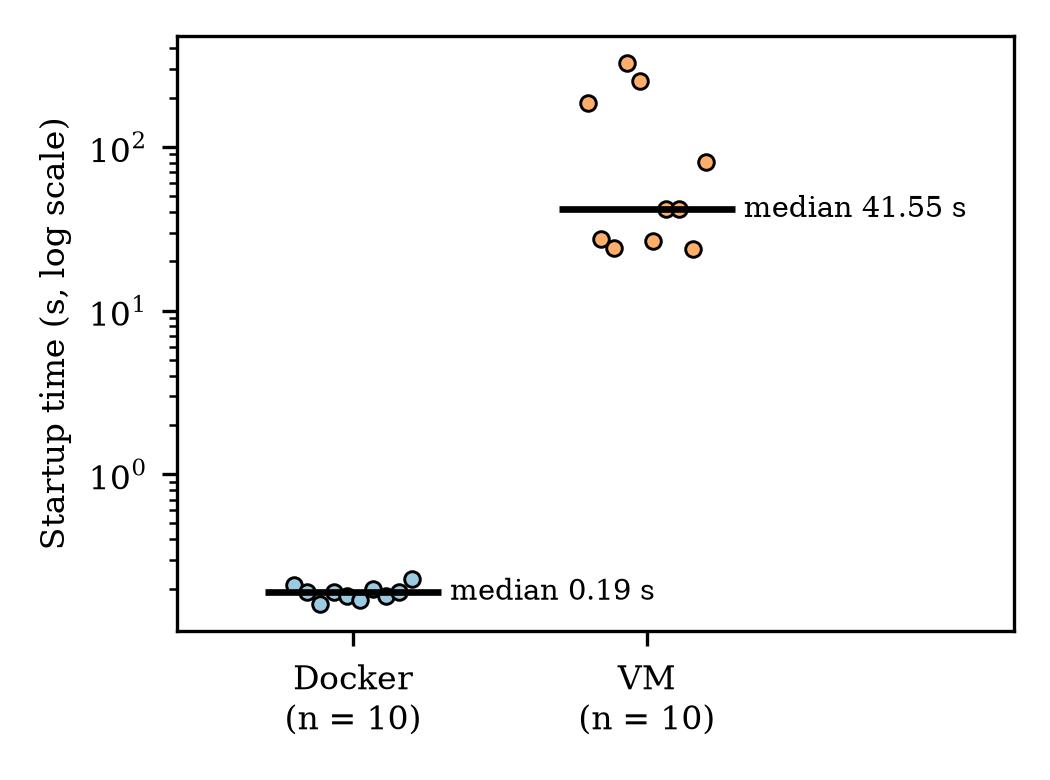
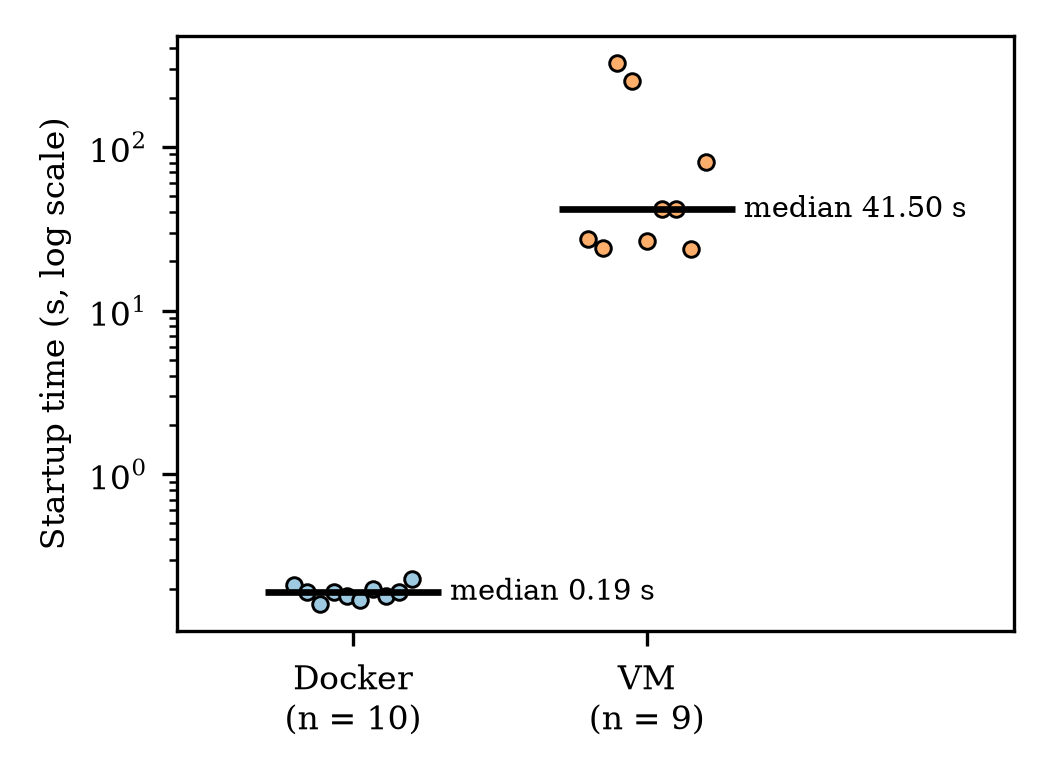
Add screenshots, VM setup, memory scripts and README; mark run 0 invalid

diff --git a/README.md b/README.md
@@ -1,27 +1,87 @@
 # Virtual Machines vs. Containers – SEN421 Course Project
 
-SEN421 Cloud Architecture and Services, Fall 2026 – Topic 2
-Istanbul Aydın University – [Your Name]
+SEN421 Cloud Architecture and Services, Fall 2026 – Topic 2 (Part A)
+Istanbul Aydın University – Safiyye Kalemci
 
 ## Overview
-This project compares running the same application in a virtual machine
-(VirtualBox, Ubuntu Server) and in a Docker container. The application is my
-portfolio website (React + Vite), served by Nginx in both environments.
-Measured: image size, startup time, memory use, and requests per second.
+This project runs the same application in a virtual machine (VirtualBox, Ubuntu Server)
+and in a Docker container, and compares image/disk size, startup time, memory use, and
+requests per second. The application is my portfolio website (React + Vite, static files),
+served by Nginx in both environments. A monthly cloud cost estimate (AWS EC2 vs. AWS Fargate)
+is also included.
 
 Application source: https://github.com/SafiyyeKalemci/Portfolio-Website
 
 ## Test Environment
-- Host: [CPU, RAM], Windows 11 Home
-- VM: VirtualBox [version], Ubuntu Server [version], [x] vCPU, [x] GB RAM
-- Container: Docker Desktop [version] (WSL2 backend)
-- Load test: k6 [version]
+| Item | Value |
+|------|-------|
+| Host | Intel Core i5-12500H (12 cores, 16 threads), 15.8 GB RAM, Windows 11 Home (build 26300) |
+| VM | VirtualBox 7.2.22 (running through Hyper-V / NEM), Ubuntu Server 26.04.1 LTS, kernel 7.0.0-44-generic, 2 vCPU, 2048 MB RAM, 15 GB disk, Nginx 1.28.3 |
+| Container | Docker Desktop 4.81.0 (Engine 29.6.1, WSL 2 backend: WSL 2.7.10.0, kernel 6.18.33.2-2), image `nginx:alpine` (Nginx 1.31.8), limits `--cpus=2 --memory=2g` |
+| Load test | k6 v2.4.0, run on the same host |
+| Site build | Vite 7.3.1, `--base=/`, `dist/` ≈ 5.6 MB |
 
 ## Repository Structure
-- `docker/` – Dockerfile and Nginx configuration
-- `vm/` – setup commands for the VM
-- `scripts/` – measurement scripts
-- `results/` – raw results (CSV) and charts
+- `docker/` – Dockerfile (default Nginx configuration of `nginx:alpine`)
+- `vm/` – VM setup steps (`setup_vm.md`)
+- `scripts/` – load test, startup and memory measurement scripts, figure script
+- `results/` – raw results (k6 JSON, startup CSV, memory logs) and `aws/` cost estimates
+- `figures/` – architecture diagram and result figures (PDF and PNG)
+- `screenshots/` – evidence of the deployments
+
+`dist/` (the built site) is not committed; build it as shown below.
 
 ## How to Reproduce
-[To be added]
+1. **Build the site** (in the Portfolio-Website repository), then copy `dist/` to the root of this repository:
+   ```powershell
+   npm ci
+   npm run build -- --base=/
+   ```
+2. **Container** (repository root):
+   ```powershell
+   docker build -t portfolio-nginx -f docker/Dockerfile .
+   docker run -d --name portfolio -p 8080:80 --cpus=2 --memory=2g portfolio-nginx
+   ```
+3. **VM**: follow [`vm/setup_vm.md`](vm/setup_vm.md). The site is served on port 8081.
+4. **Throughput** – one warm-up run, then three recorded runs, 60 s apart
+   (load: 10 s ramp to 50 virtual users, 30 s at 50; each iteration requests the page, CSS and JS):
+   ```powershell
+   k6 run -e TARGET=http://localhost:8081 scripts/load_test.js   # warm-up
+   foreach ($i in 1..3) { k6 run -e TARGET=http://localhost:8081 --summary-export="results/vm_run$i.json" scripts/load_test.js; Start-Sleep -Seconds 60 }
+   ```
+   Use port 8080 and `docker_run$i.json` for the container. Docker Desktop was closed during the VM tests.
+5. **Startup time** (start command until the first HTTP 200):
+   ```powershell
+   powershell -ExecutionPolicy Bypass -File scripts\measure_vm_startup.ps1
+   powershell -ExecutionPolicy Bypass -File scripts\measure_docker_startup.ps1
+   ```
+   VM: power-on of a stopped VM. Docker: `docker start` of an existing container while Docker Desktop is already running.
+6. **Memory under load** – run the sampler and a k6 test at the same time (three repetitions):
+   - VM (inside the VM over SSH): `bash measure_vm_memory.sh 1`, then copy `mem1.txt` to `results/vm_mem1.txt`
+   - Docker: `powershell -ExecutionPolicy Bypass -File scripts\measure_docker_memory.ps1 -Rep 1`
+7. **Size**:
+   ```powershell
+   docker images portfolio-nginx
+   docker image inspect portfolio-nginx --format "{{.Size}}"
+   docker exec portfolio sh -c "du -xsm / 2>/dev/null"
+   ```
+   In the VM: `df -h /`; on the host: size of the `.vdi` file.
+8. **Figures**:
+   ```powershell
+   pip install matplotlib
+   python scripts/make_figures.py
+   ```
+
+## Main Results (mean ± SD of 3 runs unless noted)
+| Metric | Docker | VM |
+|--------|--------|----|
+| Throughput (req/s) | 2110.8 ± 94.0 | 546.9 ± 22.6 |
+| Median response time (ms) | 22.3 ± 1.0 | 78.6 ± 1.9 |
+| p95 response time (ms) | 81.6 ± 3.9 | 321.7 ± 15.6 |
+| Startup time, median (s) | 0.19 (n = 10) | 41.5 (n = 9) |
+| Memory under load (MiB) | 17.6 ± 0.1 (container cgroup) | 410.7 ± 0.6 (whole VM) |
+| Filesystem size | 70 MiB | 5.0 GiB |
+
+## Cost
+No cloud resources were created; all experiments ran locally (actual cost: 0 USD).
+Monthly estimates from the AWS Pricing Calculator (Europe (Milan)) are in `results/aws/`.

diff --git a/vm/setup_vm.md b/vm/setup_vm.md
@@ -1,0 +1,55 @@
+# VM setup (VirtualBox + Ubuntu Server + Nginx)
+
+These are the steps used to prepare the virtual machine for the measurements.
+
+## 1. Create the VM
+- VirtualBox 7.2.22 on Windows 11 Home
+- VM name: `ubuntu-nginx`
+- Guest OS: Ubuntu Server 26.04.1 LTS (kernel 7.0.0-44-generic), default installation with OpenSSH server
+- 2 vCPU, 2048 MB RAM, 15 GB dynamically allocated VDI disk
+- Network: NAT (adapter 1)
+
+## 2. Port forwarding (VirtualBox GUI)
+Settings → Network → Adapter 1 (NAT) → Advanced → Port Forwarding:
+
+| Name | Protocol | Host port | Guest port |
+|------|----------|-----------|------------|
+| http | TCP | 8081 | 80 |
+| ssh  | TCP | 2222 | 22 |
+
+(Equivalent command, not used in this study:
+`VBoxManage modifyvm ubuntu-nginx --natpf1 "http,tcp,,8081,,80" --natpf1 "ssh,tcp,,2222,,22"`)
+
+## 3. Install Nginx (inside the VM)
+```bash
+sudo apt update
+sudo apt install -y nginx        # installed version: nginx 1.28.3 (Ubuntu)
+```
+The default Nginx configuration was used (document root `/var/www/html`).
+
+## 4. Copy the built site (from the host, repository root)
+```powershell
+scp -P 2222 -r dist deaduser@localhost:~/dist
+```
+
+## 5. Publish the site (inside the VM)
+```bash
+sudo rm -rf /var/www/html/*
+sudo cp -r /home/deaduser/dist/. /var/www/html/
+```
+
+## 6. Check
+```bash
+nginx -v
+systemctl status nginx --no-pager
+```
+Then open http://localhost:8081 on the host.
+
+## Notes
+- Hyper-V was enabled on the host (needed by Docker Desktop / WSL 2). VirtualBox therefore
+  ran through the Windows Hypervisor Platform (NEM) instead of VT-x directly. Evidence in
+  `VBox.log`: `HM: HMR3Init: Attempting fall back to NEM: VT-x is not available`.
+- The guest kernel reports `Hypervisor detected: KVM` because VirtualBox offers a
+  KVM-compatible paravirtualization interface; KVM itself is not used.
+- Memory samples were taken inside the VM with `scripts/measure_vm_memory.sh` over SSH
+  and copied back with `scp -P 2222 deaduser@localhost:~/mem1.txt results/vm_mem1.txt`.
